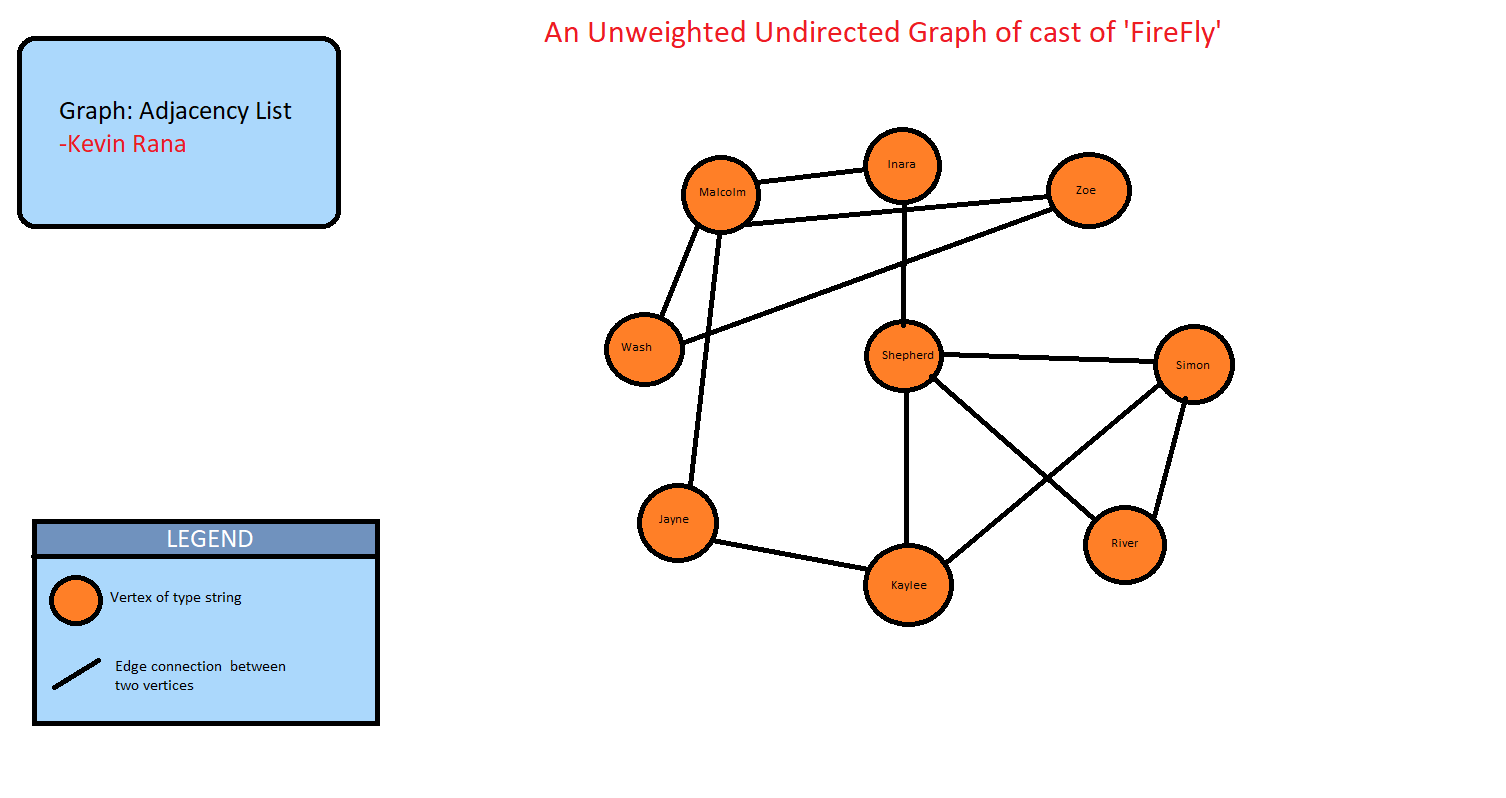
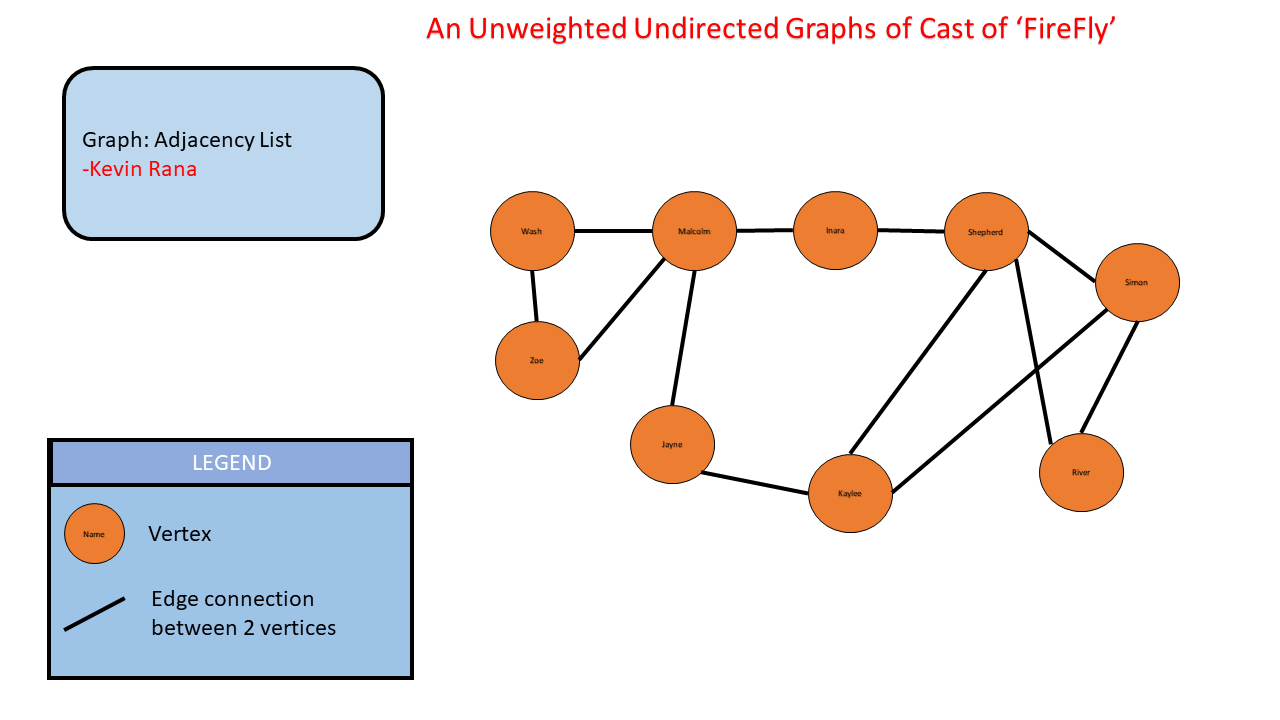
Added BFS and DFS algorithm implementations and updated Graph:Adjacency List digram

diff --git a/Graphs/src/com/graph/adjacency/list/Graph.java b/Graphs/src/com/graph/adjacency/list/Graph.java
@@ -122,6 +122,69 @@ public class Graph {
 	}
 	
 
+	public Set<String> BreathFirstSearch(String root){
+		
+		// Visit set lists out all of the vertices we have already visited
+		// to avoid being stuck in cycles/non-terminating loops
+		// Using a LinkedHashSet to maintain insertion order of visited vertices
+		Set<String> visited = new LinkedHashSet<>();
+		
+		
+		// queue for adding each node to visit as we go level by level till all nodes are visited
+		Queue<String> queue = new LinkedList<>();
+		
+		queue.add(root);
+		visited.add(root);
+		
+		
+		while(!queue.isEmpty()) {
+			
+			String curr = queue.remove(); // temp to store head of queue
+			
+			for(String s : this.getAdjVertices(curr)) {
+				
+				if(visited.add(s)) {
+					queue.add(s);
+				}
+			}
+		}
+		
+		return visited;
+	}
+	
+	
+	public Set<String> DepthFirstSearch(String root){
+		
+		// Visit set lists out all of the vertices we have already visited
+		// to avoid being stuck in cycles/non-terminating loops
+		// Using a LinkedHashSet to maintain insertion order of visited vertices
+		Set<String> visited = new LinkedHashSet<>();
+		
+		
+		// stack for adding each node to visit going deep into one path till it ends
+		Stack<String> stack = new Stack<>();
+		
+		stack.push(root);
+		
+		while(!stack.isEmpty()) {
+			
+			String curr = stack.pop(); // temp to store head of stack
+			
+			if(!visited.contains(curr)) {
+				visited.add(curr);
+				for(String s : this.getAdjVertices(curr))
+					stack.push(s);
+			}
+		}
+		
+		return visited;
+	}
+	
+	
+	
+	
+	
+	
 	public static void main(String[] args) {
 		
 		// create and instantiate a graph
@@ -160,6 +223,16 @@ public class Graph {
 		// get vertex and edge counts
 		graph.getVertexCount();
 		graph.getEdgeCount(true);
+		
+		
+		// Perform a BFS/DFS from "Malcolm"
+		System.out.println();
+		System.out.println("BFS from vertex 'Malcolm': " + graph.BreathFirstSearch("Malcolm"));
+		System.out.println("DFS from vertex 'Malcolm': " + graph.DepthFirstSearch("Malcolm"));
+		
+		// Perform a BFS/DFS from "Shepherd"
+		System.out.println("BFS from vertex 'Shepherd': " + graph.BreathFirstSearch("Shepherd"));
+		System.out.println("DFS from vertex 'Shepherd': " + graph.DepthFirstSearch("Shepherd"));
 		
 		
 		// checks to see if vertex exists
@@ -208,7 +281,6 @@ public class Graph {
 		
 	}
 
-
 }
 
 /*
@@ -227,6 +299,11 @@ Jayne => Malcolm, Kaylee,
 
 The # of vertices in this graph are: 9
 The # of edges in this graph are: 12
+
+BFS from vertex 'Malcolm': [Malcolm, Inara, Wash, Zoe, Jayne, Shepherd, Kaylee, River, Simon]
+DFS from vertex 'Malcolm': [Malcolm, Jayne, Kaylee, Shepherd, Simon, River, Inara, Zoe, Wash]
+BFS from vertex 'Shepherd': [Shepherd, Inara, River, Simon, Kaylee, Malcolm, Jayne, Wash, Zoe]
+DFS from vertex 'Shepherd': [Shepherd, Kaylee, Jayne, Malcolm, Zoe, Wash, Inara, Simon, River]
 
 Graph contains 'Shepherd' as a vertex
 
@@ -267,5 +344,6 @@ The # of vertices in this graph are: 8
 The # of edges in this graph are: 7
 
 Graph doesn't have an edge between 'Zoe' and 'Wash'
+
 
  */

diff --git a/README.md b/README.md
@@ -1,6 +1,6 @@
 # DataStructures and Algorithms
 
-**Version 1.0.27**
+**Version 1.0.28**
 
 Repo of all of my implementations of the various Data Structures and Algorithms done in Java. All implementations have the output in comment block towards end of code.
 
@@ -15,7 +15,8 @@ Repo of all of my implementations of the various Data Structures and Algorithms 
 - Graphs (Adjacency Matrix (unweighed directed graph), Adjacency List(unweighed undirected/directed graph))
 
 ## List of Algorithms Implemented:
-- (pending)
+- Breadth First Search/Traversal (for Graph:Adjacency List)
+- Depth First Search/Traversal (for Graph:Adjacency List)
 
 
 
